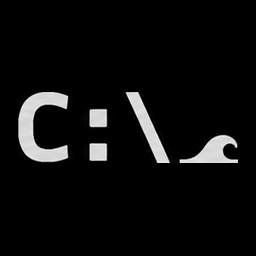
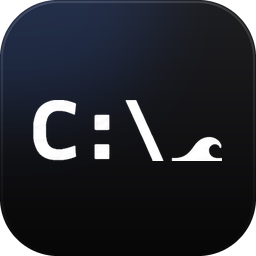
Surf 1.1.1: recommend the installer

diff --git a/README.md b/README.md
@@ -39,7 +39,7 @@
 Surf is a web browser with no toolbar. The page fills the window, your tabs sit in the title bar like Windows Terminal, and a black console sits underneath. You type what you want and press Enter.
 
 ```text
-C:\Surf [Version 1.1.0]
+C:\Surf [Version 1.1.1]
 (c) 2026 Surf Browser. Type 'help' for commands.
 
 C:\Web>wikipedia
@@ -103,8 +103,8 @@ Surf uses the same Chromium engine as Edge, without Edge's extra background serv
 
 ## Get started
 
-1. **Download.** Open the [latest release](https://github.com/gajishere/surf-browser-releases/releases/latest) and download `Surf-<version>-win-x64.zip`.
-2. **Unzip and run.** Extract the zip anywhere you like, for example `C:\Apps\Surf`, and run `SurfBrowser.exe`. There is no installer, and nothing else to install.
+1. **Download.** Open the [latest release](https://github.com/gajishere/surf-browser-releases/releases/latest) and download `Surf-<version>-win-x64-setup.exe`.
+2. **Install.** Run it and choose **Next** a few times. Surf installs just for you, so it needs no admin rights, and it adds itself to the Start menu. Prefer no installer? Take the portable zip instead (see below).
 3. **Type.** The cursor is already in the console. Try these:
 
 | Type | What happens |
@@ -124,11 +124,12 @@ Surf uses the same Chromium engine as Edge, without Edge's extra background serv
 
 | File | Size | Choose it if |
 | :--- | :--- | :--- |
-| `Surf-<version>-win-x64.zip` | about 65 MB | You want it to just work. Everything Surf needs is inside. |
+| **`Surf-<version>-win-x64-setup.exe`** | about 51 MB | **Recommended.** Installs Surf with a Start menu shortcut and an uninstaller. Everything Surf needs is inside. |
+| `Surf-<version>-win-x64.zip` | about 65 MB | You want a portable copy. Unzip it anywhere, for example `C:\Apps\Surf`, and run `SurfBrowser.exe`. |
 | `Surf-<version>-win-x64-small.exe` | about 11 MB | You already have the [.NET 10 Desktop Runtime](https://dotnet.microsoft.com/download/dotnet/10.0) (x64). Without it, the file shows a message with a link to the download instead of starting. |
-| `SHA256SUMS.txt` | | Checksums for both files. |
+| `SHA256SUMS.txt` | | Checksums for all three files. |
 
-Both run the same Surf at the same speed (we measured both). GitHub's *Source code* archives contain only this repository's documentation, not the app.
+All of them run the same Surf at the same speed, and all of them update themselves. GitHub's *Source code* archives contain only this repository's documentation, not the app.
 
 ### System requirements
 
@@ -140,18 +141,18 @@ Both run the same Surf at the same speed (we measured both). GitHub's *Source co
 In PowerShell, in the folder where you saved the file:
 
 ```powershell
-Get-FileHash .\Surf-1.0.0-win-x64.zip -Algorithm SHA256
+Get-FileHash .\Surf-1.1.1-win-x64-setup.exe -Algorithm SHA256
 ```
 
 Compare the hash with the matching line in `SHA256SUMS.txt` from the same release.
 
 ### Update
 
-Download the new version and replace the old files. Your settings, bookmarks, history, scripts and workspaces stay where they are, in `%LOCALAPPDATA%\SurfBrowser`. To hear about new versions, choose **Watch → Custom → Releases** at the top of this page.
+Surf updates itself: once a day it checks for a new version and gets it ready for your next start. Type `ver /update` to check right away, or turn it off with *Update Surf automatically* in `settings`. Your settings, bookmarks, history, scripts and workspaces stay where they are, in `%LOCALAPPDATA%\SurfBrowser`. To hear about new versions, choose **Watch → Custom → Releases** at the top of this page.
 
 ### Uninstall
 
-Close Surf, delete the folder you unzipped it into, and delete `%LOCALAPPDATA%\SurfBrowser`. Surf writes nothing to the registry. See [Privacy](docs/PRIVACY.md#remove-everything).
+If you used the installer, open **Settings → Apps → Installed apps**, find **Surf Browser** and choose **Uninstall**. It asks whether to delete your settings, bookmarks and history too. For the zip or small exe, close Surf, delete the folder or file, and delete `%LOCALAPPDATA%\SurfBrowser`. See [Privacy](docs/PRIVACY.md#remove-everything).
 
 ## Documentation
 

diff --git a/docs/PRIVACY.md b/docs/PRIVACY.md
@@ -81,11 +81,15 @@ Surf has no analytics, usage tracking, crash reporting or telemetry. Its code co
 
 ## Remove everything
 
+If you installed Surf with the installer, uninstall it from **Settings → Apps → Installed apps** and answer **Yes** when it asks whether to delete your settings, bookmarks and history. That removes everything below.
+
+Otherwise:
+
 1. Close Surf.
 2. Delete the folder you unzipped Surf into, or the small `.exe` if you use that download.
 3. Delete the folder `%LOCALAPPDATA%\SurfBrowser`. Paste that path into the File Explorer address bar to open it.
 
-Surf does not write to the Windows registry, and it does not store data anywhere else. Files you downloaded stay in your download folder until you delete them. If you set the `WEBVIEW2_USER_DATA_FOLDER` environment variable, the browser engine keeps its profile in that folder instead of `WebView2`, so delete that folder too.
+In the Windows registry, Surf writes only the `Surf Browser` entry under `HKEY_CURRENT_USER\Software\Microsoft\Windows\CurrentVersion\Run` while *Keep Surf ready* is on (turning it off removes it), and the installer adds its own uninstall entry. Surf does not store data anywhere else. Files you downloaded stay in your download folder until you delete them. If you set the `WEBVIEW2_USER_DATA_FOLDER` environment variable, the browser engine keeps its profile in that folder instead of `WebView2`, so delete that folder too.
 
 ## See also
 

diff --git a/CHANGELOG.md b/CHANGELOG.md
@@ -2,6 +2,16 @@
 
 All notable changes to Surf Browser are listed here. The format follows [Keep a Changelog](https://keepachangelog.com/en/1.1.0/), and Surf uses [semantic versioning](https://semver.org/).
 
+## [1.1.1] - 2026-10-31
+
+### Added
+
+- An installer, `Surf-1.1.1-win-x64-setup.exe`, now the recommended download. It installs Surf just for you (no admin rights) in `%LOCALAPPDATA%\Programs\Surf`, adds a Start menu shortcut and an optional desktop shortcut, and keeps Surf updating itself. Its uninstaller asks before deleting your settings, bookmarks and history. The portable zip and small exe are still there.
+
+### Changed
+
+- The app icon has rounded corners and a soft blue glow, so it sits better on the taskbar.
+
 ## [1.1.0] - 2026-10-31
 
 ### Faster
@@ -60,5 +70,6 @@ The first public release.
 - The web engine starts while the window is being built, so the first page appears sooner.
 - Surf's own process uses about 38 MB, and the console keeps at most about 9,000 lines.
 
+[1.1.1]: https://github.com/gajishere/surf-browser-releases/releases/tag/v1.1.1
 [1.1.0]: https://github.com/gajishere/surf-browser-releases/releases/tag/v1.1.0
 [1.0.0]: https://github.com/gajishere/surf-browser-releases/releases/tag/v1.0.0
